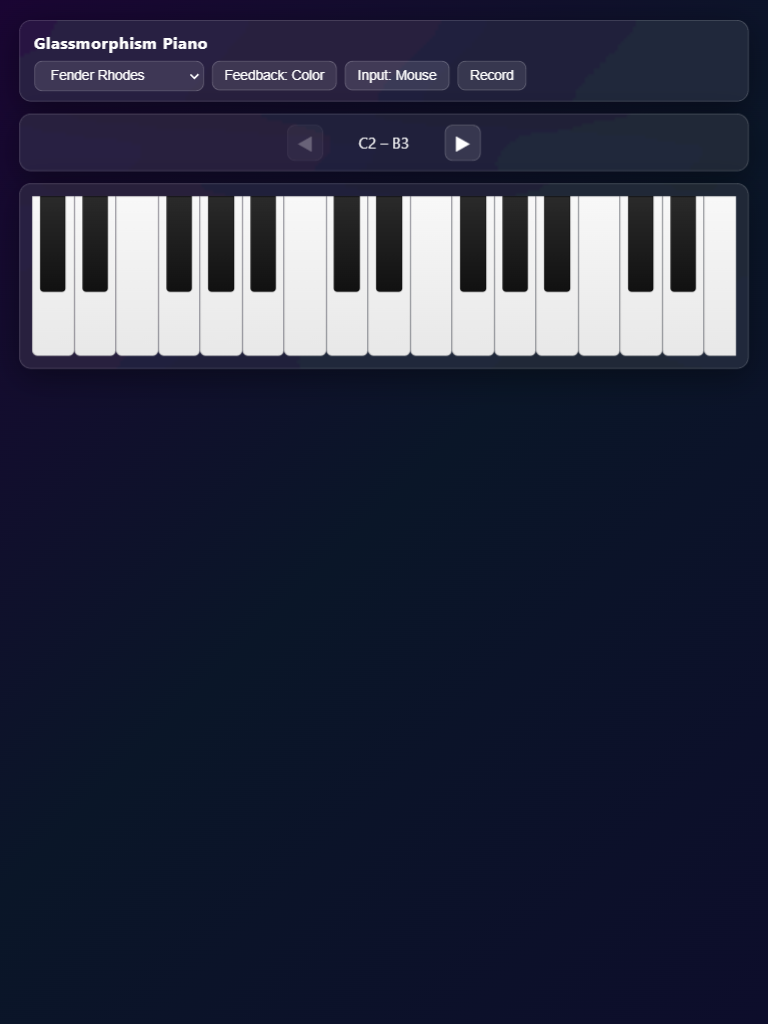
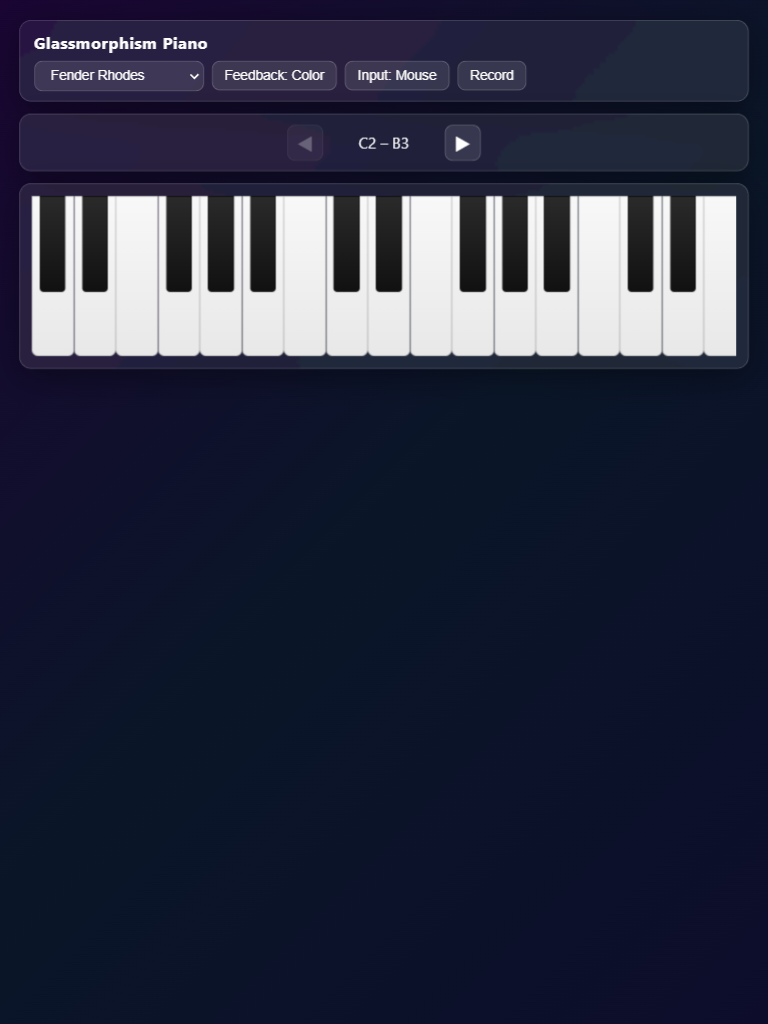
fixed ' key handler

Changed region(s): [[0.8438, 0.1875, 0.875, 0.2812], [0.625, 0.1875, 0.6562, 0.2812]]

diff --git a/claude/index.html b/claude/index.html
@@ -208,7 +208,7 @@
   <h1>Glassmorphism Piano</h1>
   <select id="presetSelect" aria-label="Instrument preset"></select>
   <button id="feedbackBtn" title="Toggle visual feedback">Feedback: Color</button>
-  <button id="inputModeBtn" title="Toggle input mode">Input: Mouse</button>
+  <button id="inputModeBtn" title="Toggle input mode">Input: Keyboard</button>
   <button id="recordBtn" title="Record audio">Record</button>
 </header>
 
@@ -226,7 +226,7 @@
   </div>
 </div>
 
-<p class="hint" id="hint">Press A–J for white keys, W/E/T/Y/U for black keys. Arrow keys to change octave.</p>
+<p class="hint" id="hint">White: A–J + K L ; ' \ &nbsp; Black: W E T Y U + I O P [ &nbsp; Arrows: change octave.</p>
 
 <script src="https://cdn.jsdelivr.net/npm/tone@14.7.77/build/Tone.js"></script>
 <script>
@@ -250,8 +250,27 @@
   const BASE_OCTAVE = 2; // C2 through B6
 
   const KEYBOARD_MAP = {
-    'a':'C', 'w':'C#', 's':'D', 'e':'D#', 'd':'E',
-    'f':'F', 't':'F#', 'g':'G', 'y':'G#', 'h':'A', 'u':'A#', 'j':'B'
+    // First octave (home row = white, QWERTY row = black)
+    'a': { note: 'C', oct: 0 }, 'w': { note: 'C#', oct: 0 },
+    's': { note: 'D', oct: 0 }, 'e': { note: 'D#', oct: 0 },
+    'd': { note: 'E', oct: 0 },
+    'f': { note: 'F', oct: 0 }, 't': { note: 'F#', oct: 0 },
+    'g': { note: 'G', oct: 0 }, 'y': { note: 'G#', oct: 0 },
+    'h': { note: 'A', oct: 0 }, 'u': { note: 'A#', oct: 0 },
+    'j': { note: 'B', oct: 0 },
+    // Second octave (K onwards)
+    'k': { note: 'C', oct: 1 }, 'o': { note: 'C#', oct: 1 },
+    'l': { note: 'D', oct: 1 }, 'p': { note: 'D#', oct: 1 },
+    ';': { note: 'E', oct: 1 },
+    "'": { note: 'F', oct: 1 }, ']': { note: 'F#', oct: 1 },
+    '\\': { note: 'G', oct: 1 }
+  };
+
+  // Fallback: physical key codes for punctuation keys that may be dead keys
+  // on international keyboards (e.g. ' is a dead key in some layouts)
+  const CODE_TO_KEY = {
+    'Semicolon': ';', 'Quote': "'",
+    'BracketLeft': '[', 'Backslash': '\\', 'BracketRight': ']'
   };
 
   // ── State ──────────────────────────────────────────────────
@@ -260,13 +279,13 @@
   let effectsChain = [];
   let visibleOctaves = 2;
   let startOctaveIdx = 0;
-  let inputMode = 'mouse'; // 'mouse' | 'keyboard'
+  let inputMode = 'keyboard'; // 'mouse' | 'keyboard'
   let feedbackMode = 'color'; // 'color' | 'depress'
   let recording = false;
   let mediaRecorder = null;
   let recordedChunks = [];
   const activePointers = new Map(); // pointerId -> noteString
-  const activeKeys = new Set(); // keyboard keys currently held
+  const activeKeys = new Map(); // keyboard key -> noteString currently sounding
 
   // ── DOM refs ───────────────────────────────────────────────
   const overlay = document.getElementById('overlay');
@@ -595,23 +614,32 @@
     if (e.key === 'ArrowLeft') { navigateOctave(-1); return; }
     if (e.key === 'ArrowRight') { navigateOctave(1); return; }
 
-    const noteName = KEYBOARD_MAP[e.key.toLowerCase()];
-    if (!noteName) return;
+    let k = e.key.toLowerCase();
+    if (!KEYBOARD_MAP[k] && CODE_TO_KEY[e.code]) k = CODE_TO_KEY[e.code];
+    const mapping = KEYBOARD_MAP[k];
+    if (!mapping) return;
     e.preventDefault();
-    if (activeKeys.has(e.key.toLowerCase())) return;
-    activeKeys.add(e.key.toLowerCase());
-    const octNum = BASE_OCTAVE + startOctaveIdx;
-    noteOn(noteName + octNum);
+    if (activeKeys.has(k)) return;
+    const octNum = BASE_OCTAVE + startOctaveIdx + mapping.oct;
+    if (octNum > BASE_OCTAVE + TOTAL_OCTAVES - 1) return;
+    const noteStr = mapping.note + octNum;
+    activeKeys.set(k, noteStr);
+    noteOn(noteStr);
   });
 
   document.addEventListener('keyup', e => {
     if (inputMode !== 'keyboard') return;
-    const k = e.key.toLowerCase();
-    const noteName = KEYBOARD_MAP[k];
-    if (!noteName) return;
+    let k = e.key.toLowerCase();
+    if (!activeKeys.has(k) && CODE_TO_KEY[e.code]) k = CODE_TO_KEY[e.code];
+    const noteStr = activeKeys.get(k);
+    if (!noteStr) return;
     activeKeys.delete(k);
-    const octNum = BASE_OCTAVE + startOctaveIdx;
-    noteOff(noteName + octNum);
+    noteOff(noteStr);
+  });
+
+  window.addEventListener('blur', () => {
+    for (const noteStr of activeKeys.values()) noteOff(noteStr);
+    activeKeys.clear();
   });
 
   // ── Ribbon Navigation ─────────────────────────────────────
@@ -657,10 +685,7 @@
     // Release all active notes first
     activePointers.forEach((note) => noteOff(note));
     activePointers.clear();
-    activeKeys.forEach(k => {
-      const noteName = KEYBOARD_MAP[k];
-      if (noteName) noteOff(noteName + (BASE_OCTAVE + startOctaveIdx));
-    });
+    activeKeys.forEach((noteStr) => noteOff(noteStr));
     activeKeys.clear();
 
     inputMode = inputMode === 'mouse' ? 'keyboard' : 'mouse';
